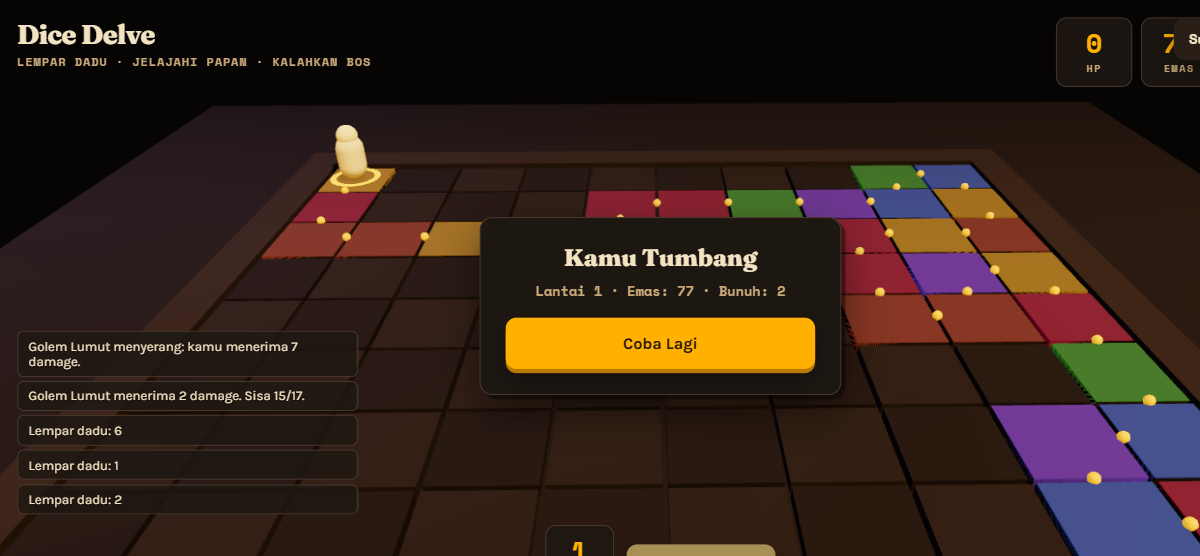
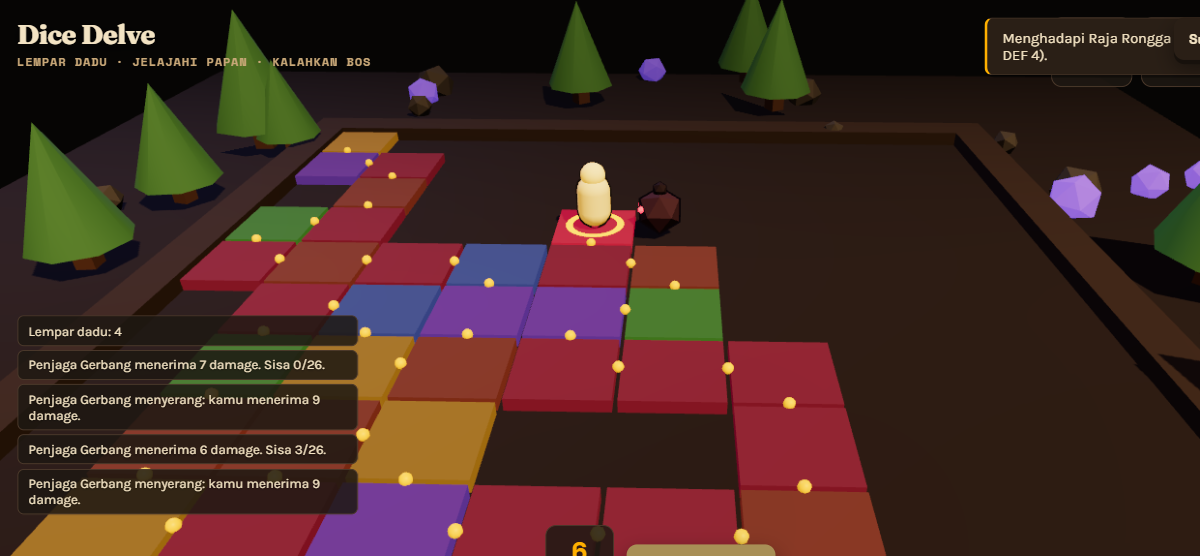
docs: README diperbarui dengan fitur baru (hub, draft, AI, juice)
Tangkapan layar gameplay baru (combat dengan partikel dan angka damage)
dan daftar fitur diperbarui: hub meta-progresi, draft kartu, 10 kartu,
AI berkepribadian, juice, dekorasi, dan musik adaptif.

diff --git a/README.md b/README.md
@@ -2,12 +2,12 @@
 
 ![Papan permainan](docs/board.png)
 
-![Gameplay](docs/gameplay.png)
+![Gameplay saat combat](docs/gameplay.png)
 
 Board-roguelike 3D stylized yang berjalan langsung di browser: lempar dadu,
 jelajahi papan prosedural, kumpulkan kartu, dan kalahkan bos. Papan 10x10
-diacak ulang setiap run, lawan AI, sistem kartu relic, dan bisa dipasang
-sebagai PWA (offline).
+diacak ulang setiap run, lawan AI berkepribadian, sistem kartu relic,
+hub meta-progresi, dan bisa dipasang sebagai PWA (offline).
 
 Demo: https://fawwaz1st.github.io/dice-delve/
 
@@ -15,34 +15,37 @@ Demo: https://fawwaz1st.github.io/dice-delve/
 
 ```mermaid
 flowchart TD
-    A[Run mulai] --> B[Lempar dadu]
-    B --> C[Pion melompat]
-    C --> D{Petak tujuan?}
-    D -->|monster / elite / bos| E[Combat turn-based]
-    D -->|harta| F[+Emas / kartu]
-    D -->|jebakan| G[Damage]
-    D -->|toko| H[Beli kartu]
-    D -->|istirahat| I[+HP]
-    E -->|menang| J[+Emas]
-    J --> K{Cek menang?}
-    E -->|kalah| L[Run selesai]
-    F --> K
-    G --> K
-    H --> K
-    I --> K
-    K -->|belum| B
-    K -->|papan habis| M[Menang lantai]
-    M --> N[Lantai berikutnya]
+    A[Judul] --> B[Hub]
+    B --> C[Draft kartu]
+    C --> D[Run mulai]
+    D --> E[Lempar dadu]
+    E --> F[Pion melompat]
+    F --> G{Petak tujuan?}
+    G -->|monster / elite / bos| H[Combat turn-based]
+    G -->|harta| I[+Emas / kartu]
+    G -->|jebakan| J[Damage]
+    G -->|toko| K[Beli kartu]
+    G -->|istirahat| L[+HP]
+    H -->|menang| M[+Emas]
+    H -->|kalah| N[Run selesai]
+    M --> O{Cek menang?}
+    I --> O
+    J --> O
+    K --> O
+    L --> O
+    O -->|belum| E
+    O -->|papan habis| P[Menang lantai]
+    P --> Q[Lantai berikutnya / Hub]
 ```
 
 Aturan singkat:
 
-1. Klik Lempar Dadu (atau tekan tombol di layar) saat giliranmu.
-2. Pion melompat sejumlah langkah sesuai nilai dadu.
-3. Petak monster memulai combat turn-based melawan AI.
-4. Kartu relic memperkuat dadu dan memberi efek di setiap giliran.
-5. Kalahkan bos untuk menembus papan dan masuk lantai berikutnya.
-6. HP mencapai nol mengakhiri run.
+1. Di hub, beli upgrade permanen dengan shard.
+2. Pilih 1 kartu awal dari draft (3 pilihan).
+3. Klik Lempar Dadu: pion melompat sesuai nilai dadu.
+4. Petak monster memulai combat turn-based melawan AI.
+5. Kalahkan bos untuk menembus papan dan naik lantai.
+6. HP mencapai nol mengakhiri run; hasil run menjadi shard.
 
 ## Fitur
 
@@ -51,20 +54,28 @@ Aturan singkat:
   dibagikan dan diulang.
 - Dadu 3D dengan animasi tween deterministik yang mendarat tepat pada
   nilai yang terpilih.
-- Combat turn-based melawan AI dengan HP, serangan, dan pertahanan; elite
-  dan bos yang lebih tangguh di lantai yang lebih dalam.
-- 6 kartu relic (Bara Api, Batu Karat, Semanggi, Bulu Angin, Mata Ketiga,
-  Pijar) dengan efek damage, regenerasi, dodge, dan dadu minimum.
-- Toko untuk membeli kartu dengan emas, petak harta untuk emas dan kartu,
-  jebakan yang memberi damage, istirahat yang memulihkan HP.
+- Combat turn-based melawan AI berkepribadian: Agresif (serangan tinggi),
+  Penjaga (HP/pertahanan tinggi), dan Licik (kadang menghindari).
+- 10 kartu relic: Bara Api, Batu Karat, Semanggi, Bulu Angin, Mata Ketiga,
+  Pijar, Gelombang (+2 damage), Magnet Emas (+25% emas), Benteng (-1 damage),
+  dan Pusaka (heal saat bunuh).
+- Draft kartu di awal run: pilih 1 dari 3.
+- Hub meta-progresi: shard permanen untuk 4 upgrade (Vitalitas +10 HP,
+  Dadu Tajam +1 damage, Keberuntungan +1 dadu, Serakah +15% emas), plus
+  statistik (lantai terbaik, total run, bunuh, emas).
 - Progresi lantai: papan baru tiap lantai, HP/emas/kartu dipertahankan.
+- Juice premium: ledakan partikel (hit, koin, heal, motes), angka damage
+  melayang, kamera follow + trauma shake + fokus combat, squash & stretch.
+- Dekorasi low-poly: pohon, kristal berpendar, batu; pencahayaan key + rim
+  + fill, fog, dan outline ink stylized pada pion/dadu/monster.
 - Audio disintesis penuh (Web Audio): SFX lempar, lompat, tabrakan, koin,
-  kartu, menang, kalah, plus musik pentatonik adaptif. Tombol bisu di HUD.
+  kartu, menang, kalah, dan musik adaptif (tenang/normal/tegang mengikuti
+  combat). Tombol bisu di HUD.
 - PWA: bisa dipasang ke layar utama dan dimainkan offline.
 - WebGPURenderer (Three.js) dengan fallback WebGL2 otomatis.
 - Loop fixed-timestep dengan interpolasi; deteksi tier perangkat dan
   pixel ratio clamp untuk 60fps di laptop menengah dan ponsel.
-- Responsif: HUD adaptif, toast, log combat, layar akhir (menang/kalah),
+- Responsif: HUD adaptif, toast, log combat, layar judul/hub/akhir,
   dan dukungan reduced-motion.
 
 ## Menjalankan
@@ -87,26 +98,32 @@ Deployment ke GitHub Pages ditangani GitHub Actions (push ke main).
     │   └── icons/
     ├── docs/                   # Tangkapan layar untuk README
     ├── src/
-    │   ├── main.ts             # Orkestrasi boot, HUD, loop
+    │   ├── main.ts             # Orkestrasi boot, layar, HUD, loop
     │   ├── core/
     │   │   ├── Renderer.ts     # WebGPURenderer + fallback WebGL2
     │   │   ├── Loop.ts         # Fixed timestep + interpolasi
     │   │   ├── Platform.ts     # Deteksi tier perangkat
     │   │   └── EventBus.ts
     │   ├── render/
-    │   │   ├── Scene.ts        # Meja, papan, cahaya, kamera
+    │   │   ├── Scene.ts        # Meja, cahaya, dekorasi, kamera
     │   │   └── Materials.ts    # Palet, material, outline ink
     │   ├── gameplay/
     │   │   ├── Board.ts        # Papan prosedural (DFS backtracking)
     │   │   ├── Dice.ts         # Dadu animasi tween
     │   │   ├── Piece.ts        # Pion dengan squash & stretch
-    │   │   ├── Cards.ts        # Katalog kartu relic
-    │   │   ├── Run.ts          # Mesin aturan (state, giliran, combat)
-    │   │   └── Game.ts         # Orkestrator turn-based
+    │   │   ├── Cards.ts        # Katalog 10 kartu relic
+    │   │   ├── Run.ts          # Mesin aturan (state, giliran, combat, AI)
+    │   │   └── Game.ts         # Orkestrator turn-based + FX
+    │   ├── meta/
+    │   │   └── Meta.ts         # Shard, upgrade, statistik, bonus run
+    │   ├── fx/
+    │   │   ├── Particles.ts    # Sistem partikel
+    │   │   ├── DamageNumbers.ts# Angka melayang
+    │   │   └── CameraRig.ts    # Follow, shake, fokus combat
     │   ├── audio/
-    │   │   └── AudioEngine.ts  # SFX + musik disintesis Web Audio
+    │   │   └── AudioEngine.ts  # SFX + musik adaptif disintesis
     │   ├── ui/
-    │   │   └── styles.css      # HUD, toast, panel akhir
+    │   │   └── styles.css      # HUD, layar, toast, panel
     │   └── utils/
     │       └── tween.ts        # Sistem tween (easing, fallback timer)
     ├── .github/workflows/
@@ -127,11 +144,10 @@ Deployment ke GitHub Pages ditangani GitHub Actions (push ke main).
 
 ## Roadmap
 
-- Hub meta-progresi dan upgrade permanen
-- Draft kartu di awal run
 - Duel async antar pemain (leaderboard musiman)
 - Tema papan dan kosmetik pion
 - Battle pass ringan
+- Mode harian ber-seed dengan tantangan khusus
 
 ## Kontribusi
 
